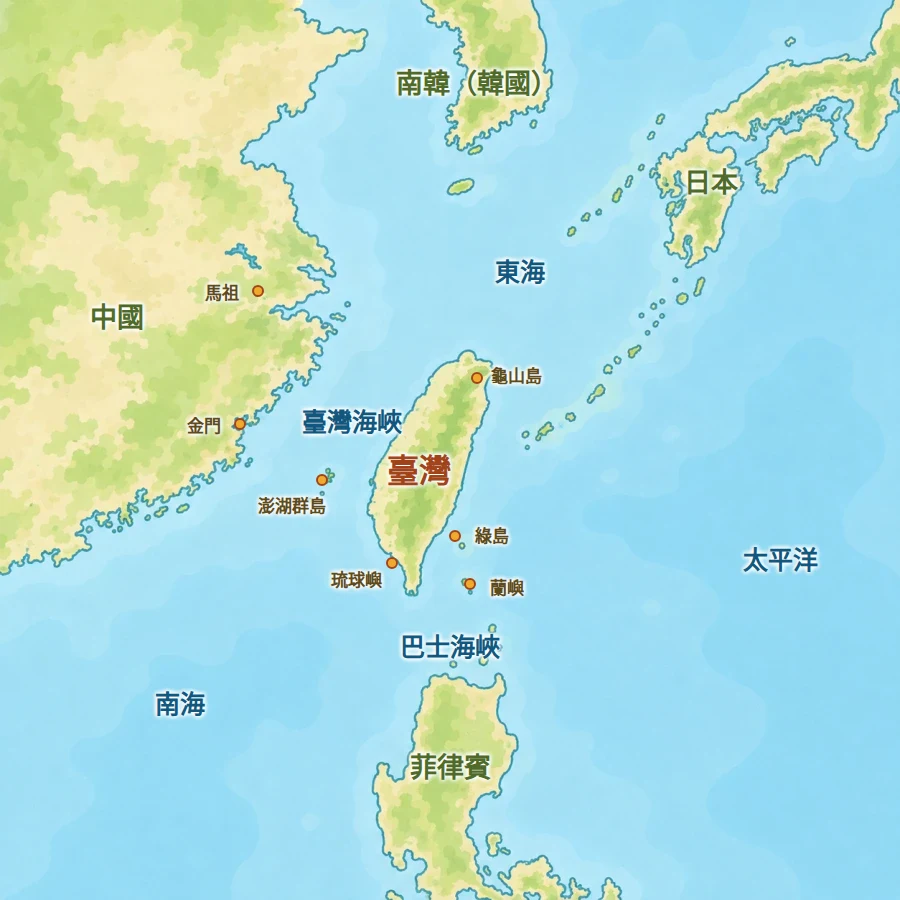
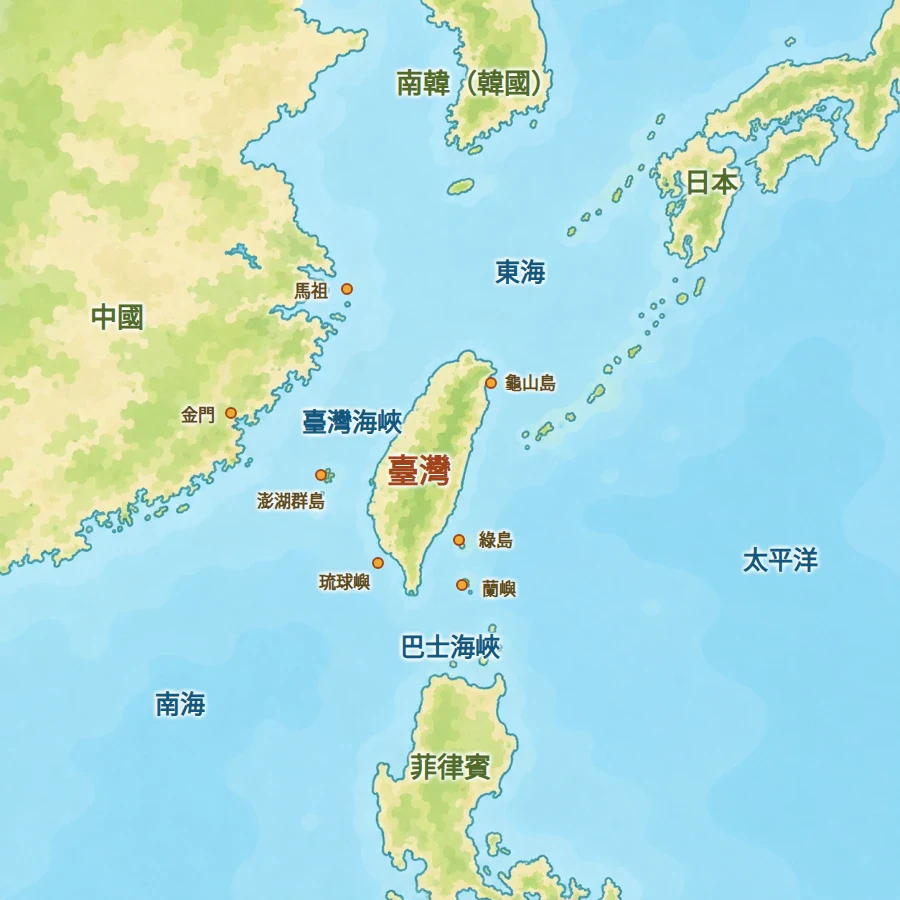
修正臺灣位置圖:馬祖等島嶼改用經緯度換算座標(原本目測把馬祖擺到內陸);校正公式寫進 mkfig_taiwan.html 與 PROGRESS

diff --git a/tools/tikuconv/mkfig_taiwan.html b/tools/tikuconv/mkfig_taiwan.html
@@ -2,7 +2,15 @@
 <!-- 臺灣位置與周邊島嶼圖：底圖由 gen-image.sh --gpt（ChatGPT 網頁的 gpt-image）產生，
      中文標籤用這支 HTML 疊上去再截圖（模型寫的中文會缺筆畫，所以底圖一律要求「不要文字」）。
      產圖：node tools/svg-preview.mjs tools/tikuconv/mkfig_taiwan.html <out.png> 900 900
-           cwebp -q 88 <out.png> -o img/social/taiwan-location.webp -->
+           cwebp -q 88 <out.png> -o img/social/taiwan-location.webp
+
+     ⚠ 社會科的地圖，島嶼位置錯了會教錯（Tony 2026-08-19 抓到馬祖擺到內陸）。
+     標籤座標一律用經緯度換算，不要目測：
+       校正點（在底圖上量出來的）：富貴角 121.53E,25.30N → (462,350)
+                                   鵝鑾鼻 120.85E,21.90N → (408,595)
+       換算：x = 462 + (lon - 121.53) * 72
+             y = 350 + (25.30 - lat) * 72          （每度約 72px，用澎湖交叉驗證過）
+     量校正點的方法：把底圖套上 50px 紅色格線截圖（見 git 歷史的 _grid.html）再讀座標。 -->
 <style>
   html,body{margin:0;padding:0}
   .wrap{position:relative;width:900px;height:900px;font-family:"Noto Sans TC","Microsoft JhengHei",sans-serif}
@@ -28,11 +36,12 @@
   <div class="l sea"  style="left:352px;top:420px">臺灣海峽</div>
   <div class="l sea"  style="left:450px;top:645px">巴士海峽</div>
   <div class="l sea"  style="left:180px;top:702px">南海</div>
-  <div class="dot" style="left:258px;top:291px"></div><div class="l isle" style="left:222px;top:291px">馬祖</div>
-  <div class="dot" style="left:240px;top:424px"></div><div class="l isle" style="left:204px;top:424px">金門</div>
-  <div class="dot" style="left:322px;top:480px"></div><div class="l isle" style="left:292px;top:504px">澎湖群島</div>
-  <div class="dot" style="left:477px;top:378px"></div><div class="l isle" style="left:516px;top:374px">龜山島</div>
-  <div class="dot" style="left:455px;top:536px"></div><div class="l isle" style="left:492px;top:534px">綠島</div>
-  <div class="dot" style="left:470px;top:584px"></div><div class="l isle" style="left:507px;top:586px">蘭嶼</div>
-  <div class="dot" style="left:392px;top:563px"></div><div class="l isle" style="left:356px;top:578px">琉球嶼</div>
+  <!-- 島嶼位置＝用實際經緯度換算（見檔頭校正公式），不是目測擺的 -->
+  <div class="dot" style="left:347px;top:289px"></div><div class="l isle" style="left:311px;top:289px">馬祖</div>
+  <div class="dot" style="left:231px;top:413px"></div><div class="l isle" style="left:198px;top:413px">金門</div>
+  <div class="dot" style="left:321px;top:475px"></div><div class="l isle" style="left:291px;top:499px">澎湖群島</div>
+  <div class="dot" style="left:491px;top:383px"></div><div class="l isle" style="left:530px;top:381px">龜山島</div>
+  <div class="dot" style="left:459px;top:540px"></div><div class="l isle" style="left:496px;top:538px">綠島</div>
+  <div class="dot" style="left:462px;top:585px"></div><div class="l isle" style="left:499px;top:587px">蘭嶼</div>
+  <div class="dot" style="left:378px;top:563px"></div><div class="l isle" style="left:344px;top:580px">琉球嶼</div>
 </div>

diff --git a/PROGRESS.md b/PROGRESS.md
@@ -104,6 +104,10 @@ STATUS: in-progress
    海岸線與島鏈更完整（含朝鮮半島）。gemini（約 30 秒）適合情境插畫那種不要求精準的圖
 2. 底圖轉 webp 放 `img/<科目>/_base-<名字>.webp`
 3. 標籤用 HTML 疊：抄 `tools/tikuconv/mkfig_taiwan.html`（絕對定位 + 白色描邊文字）
+   ⚠ **地名位置一律用經緯度換算，不要目測**（2026-08-19 Tony 抓到馬祖被擺到中國內陸）：
+   先把底圖套 50px 紅色格線截圖，量兩個好認的點（例：富貴角、鵝鑾鼻）當校正點，
+   算出 px/度，再把每個地名的實際經緯度換算成像素座標。公式寫在 mkfig_taiwan.html 檔頭。
+   社會科地圖畫錯位置＝教錯，這一步不能省
 4. `node tools/svg-preview.mjs tools/tikuconv/mkfig_<名字>.html <out.png> <寬> <高>`
 5. `cwebp -q 88 <out.png> -o img/<科目>/<名字>.webp`，資料的 img 欄位指這支
 ⛔ **codex CLI 沒有生圖能力**（2026-08-13 查證，shared.md §13 已修正舊規則）。
